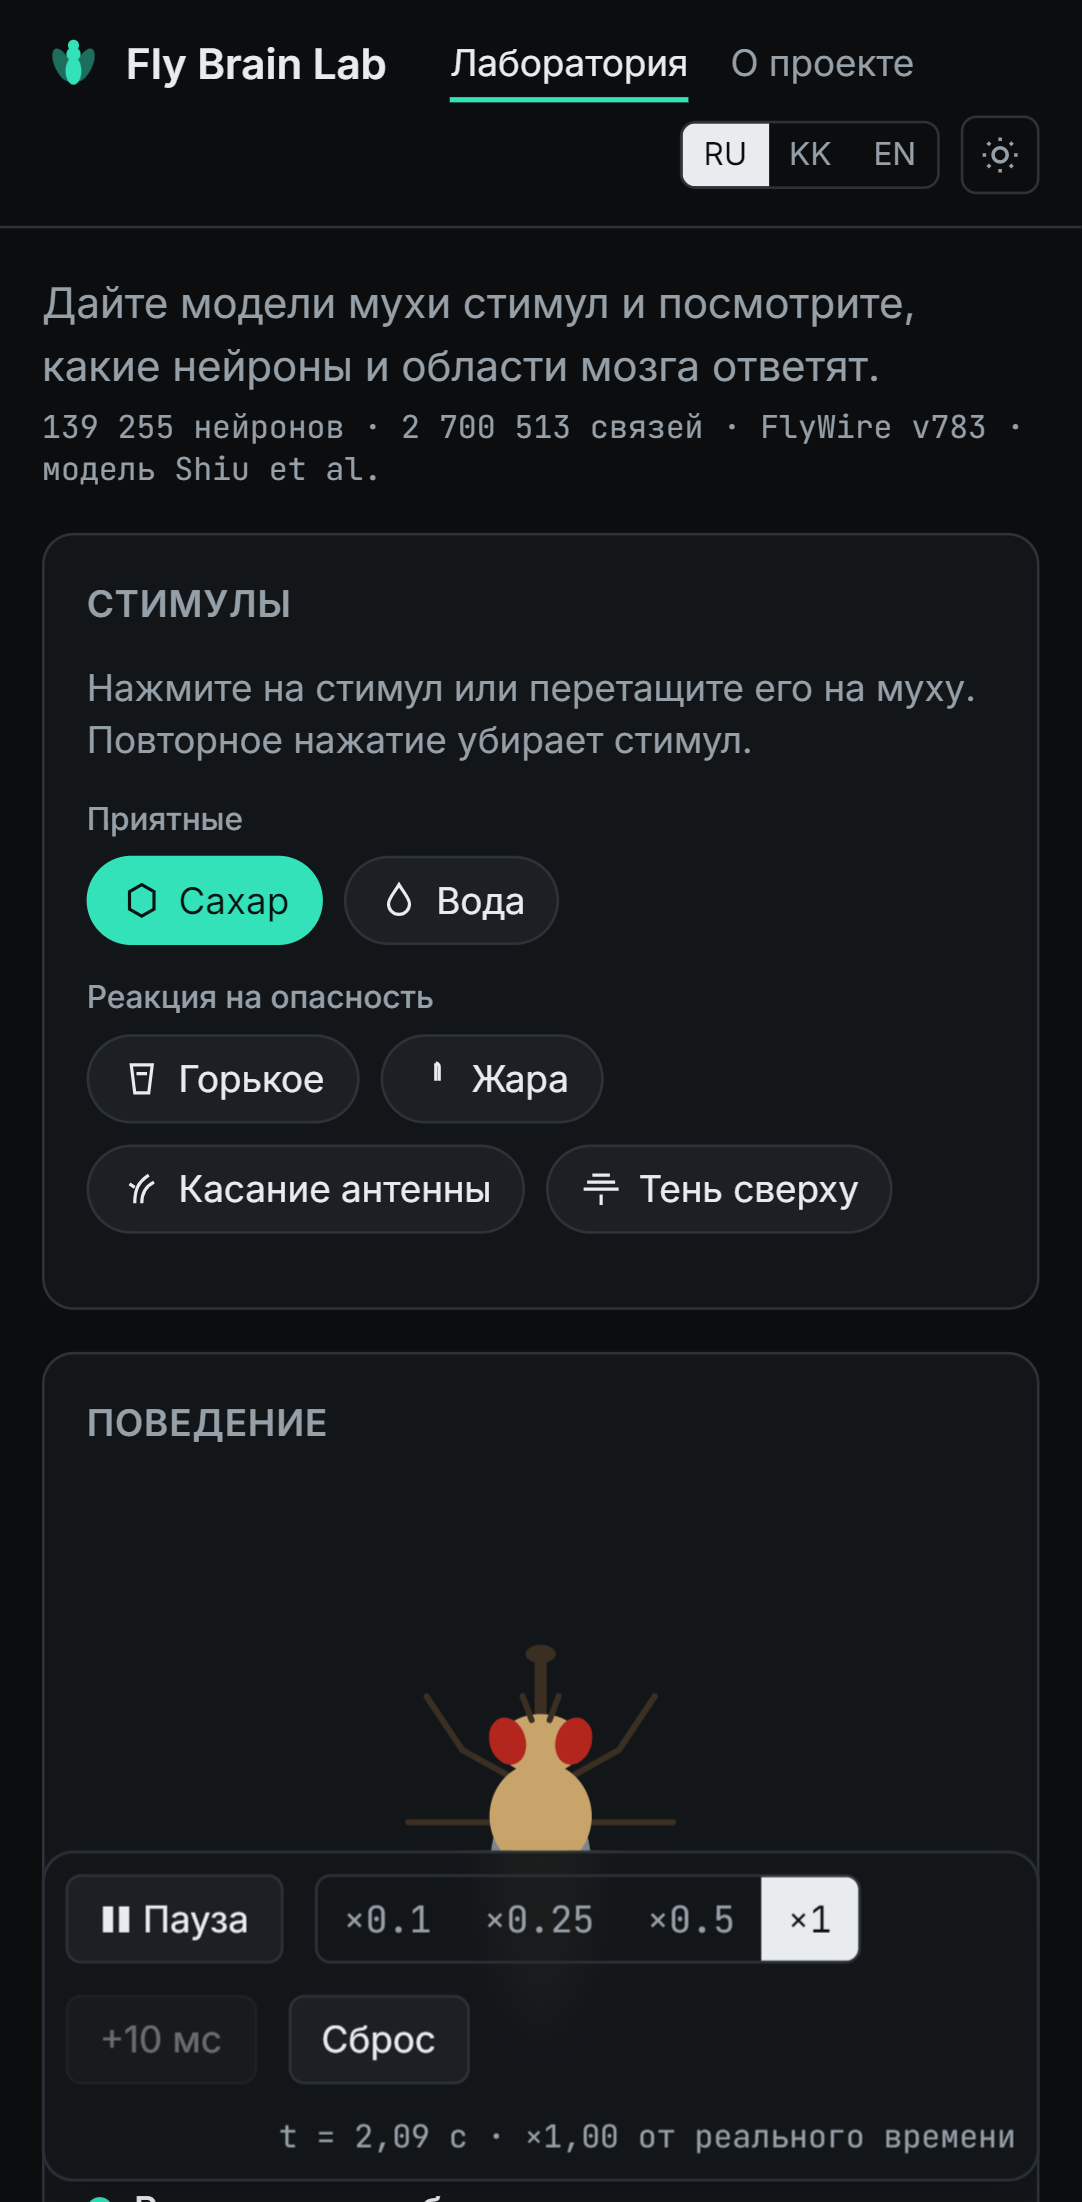
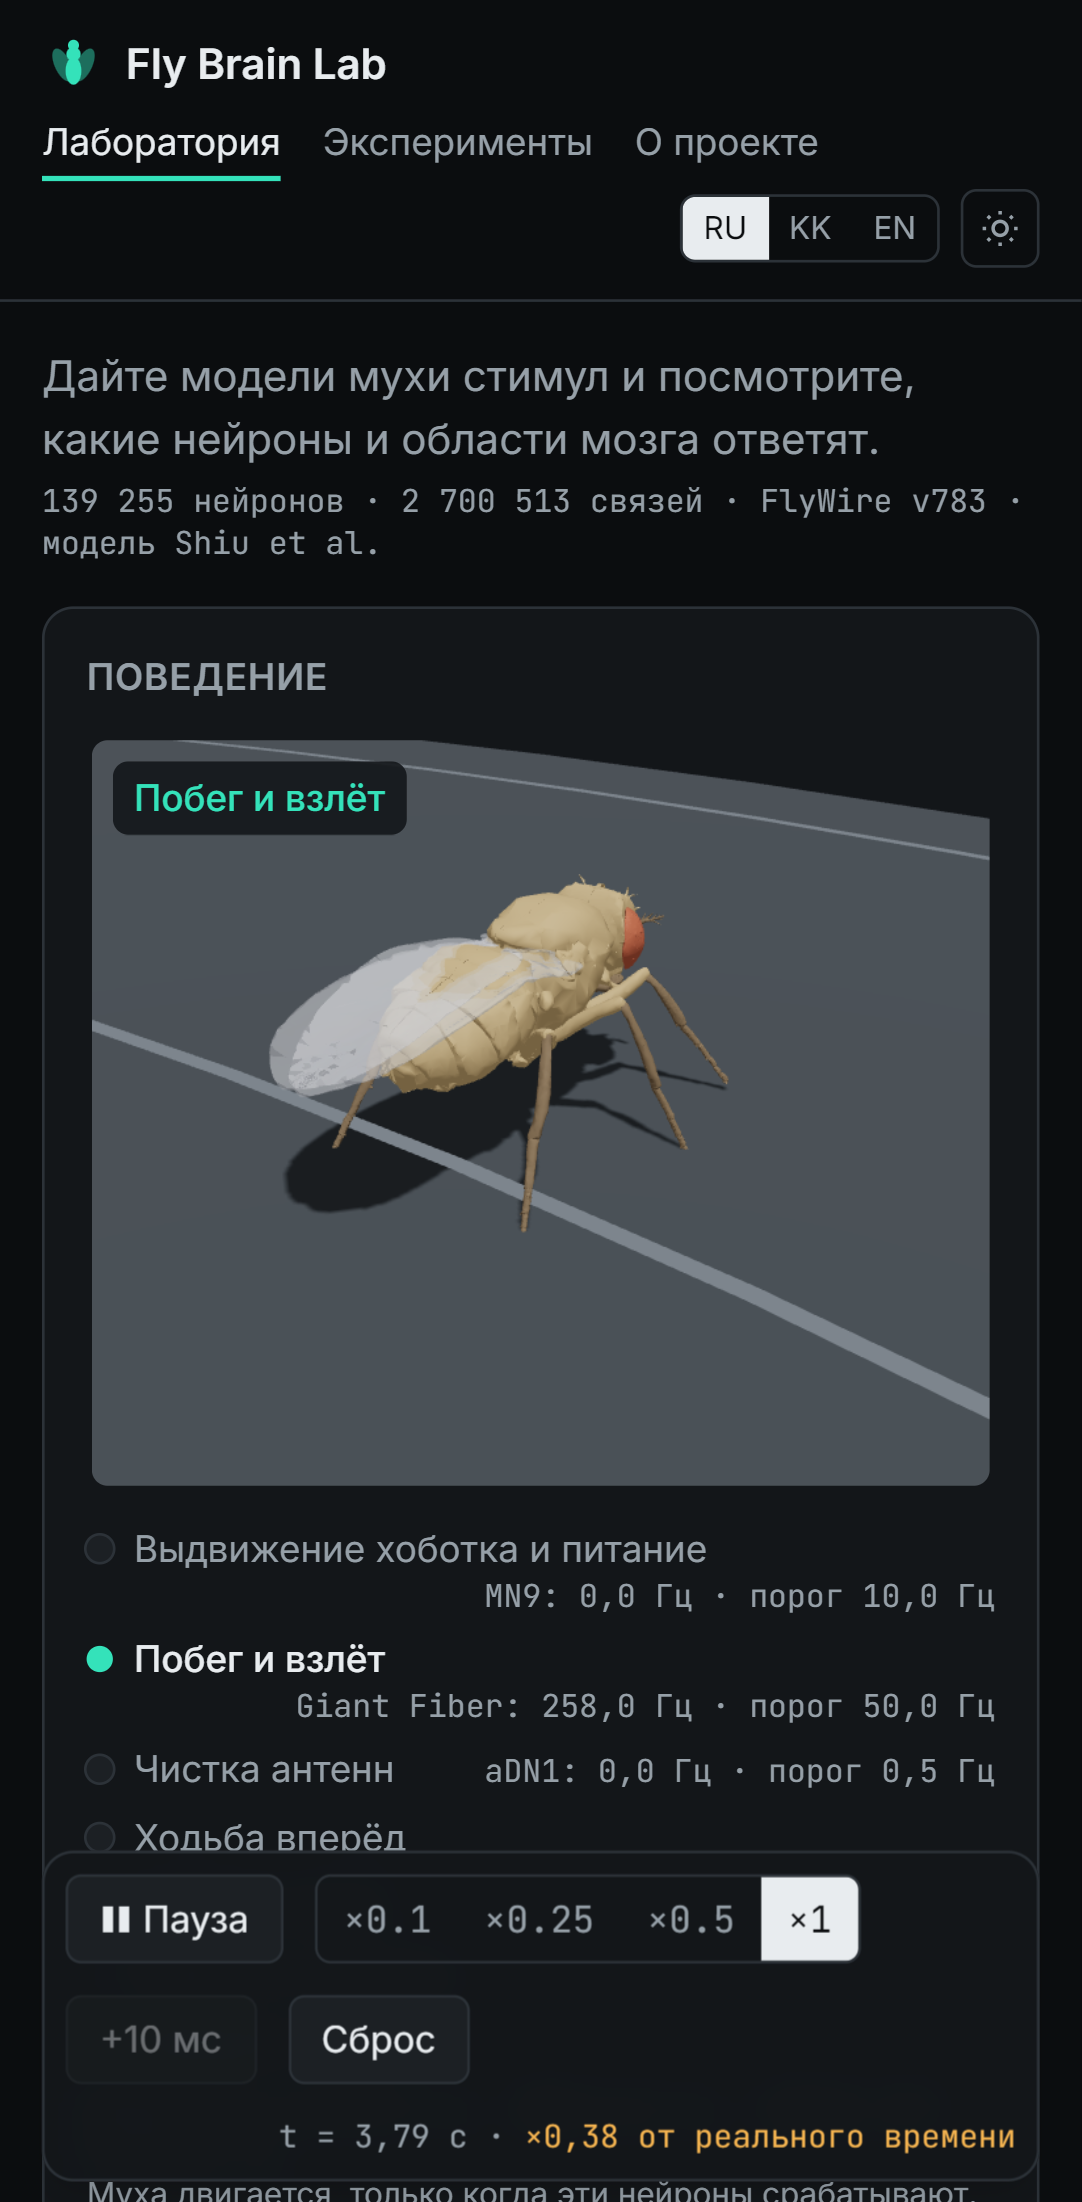
docs: status and production screenshots for step 4

diff --git a/docs/STATUS.md b/docs/STATUS.md
@@ -1,18 +1,18 @@
 # Status
 
-Last update: 2026-10-27. Current step: **STOP 2** (waiting for Nurik's review of the MVP). Steps 1–3 done.
+Last update: 2026-10-27. Steps 1–3 done, step 4 (v1 core) deployed: https://fly.noncalan.xyz
 
-Live: https://fly.noncalan.xyz (Vercel project `fly-brain-lab`, auto-deploy from `main`).
-Screenshots: `docs/screenshots/` (regenerate with `node tools/og/screens.mjs`).
-
-Tests: `npm test` (32 Vitest), `npx playwright test` (13 e2e; `E2E_BASE_URL=https://fly.noncalan.xyz` for production).
+Step 4 adds: 3D NeuroMechFly body in an arena, walking from DNp09/MDN/DNa02, neuron points in the 3D brain,
+21 stimuli, optogenetics of 8,846 cell types, lesions, URL state + share link, Experiments page (15 cards), intro dialog.
+Tests: 57 Vitest, 30 Playwright (all pass against production). Screenshots: `docs/screenshots/`.
 
 Known issues / next:
-- Load: connectome is 9.5 MB gzip; ~2 s here on a warm CDN, ~8 s expected at 10 Mbit/s. Option: delta + varint
-  encoding of CSR columns (estimate: roughly half the size, not measured yet).
-- Phone: sticky time bar takes ~15 % of the screen; fly panel is below the stimuli. Make the bar one compact row.
-- Heavy stimuli (looming, heat) run below real time (×0.15–0.3 measured in step 2); the UI shows the measured factor.
-- Software-rendered WebGL (no GPU) gives ~15 FPS; mobile auto-quality is planned for v2.
-- Kazakh strings need a native-speaker review.
-- Walking DNs (MDN, DNp09, DNa02) — waiting for Nurik's decision on extra literature sources.
-- Not deleted (hook blocked deletion): `legacy/`, old `data/connectome.bin.gz`, `data/neuron_meta.json`.
+- Many unrelated stimuli (heat, cold, humidity, odours) fall into one ~8.5k-neuron state with left DNa02 ~60 Hz, so the
+  fly turns left; flagged as a suspected model artefact (MODEL_NOTES §6). Needs a Brian2 reference run.
+- No sensory stimulus drives DNp09 or MDN; walking appears only via optogenetics.
+- Gait and grooming poses are procedural approximations on the NeuroMechFly rig (not NeuroMechFly kinematics data).
+- Load ~2 s warm CDN; first load after a deploy can be much slower (cold CDN). Connectome still 9.5 MB.
+- Phone: time bar takes ~15 % of the screen.
+- Kazakh strings need native review.
+- Remaining v1: neuron inspector (click a point), spike raster/heatmap, two flies side by side, exports (PNG/GIF/CSV).
+- v2 not started. `legacy/` still not deleted (hook blocks deletion).
